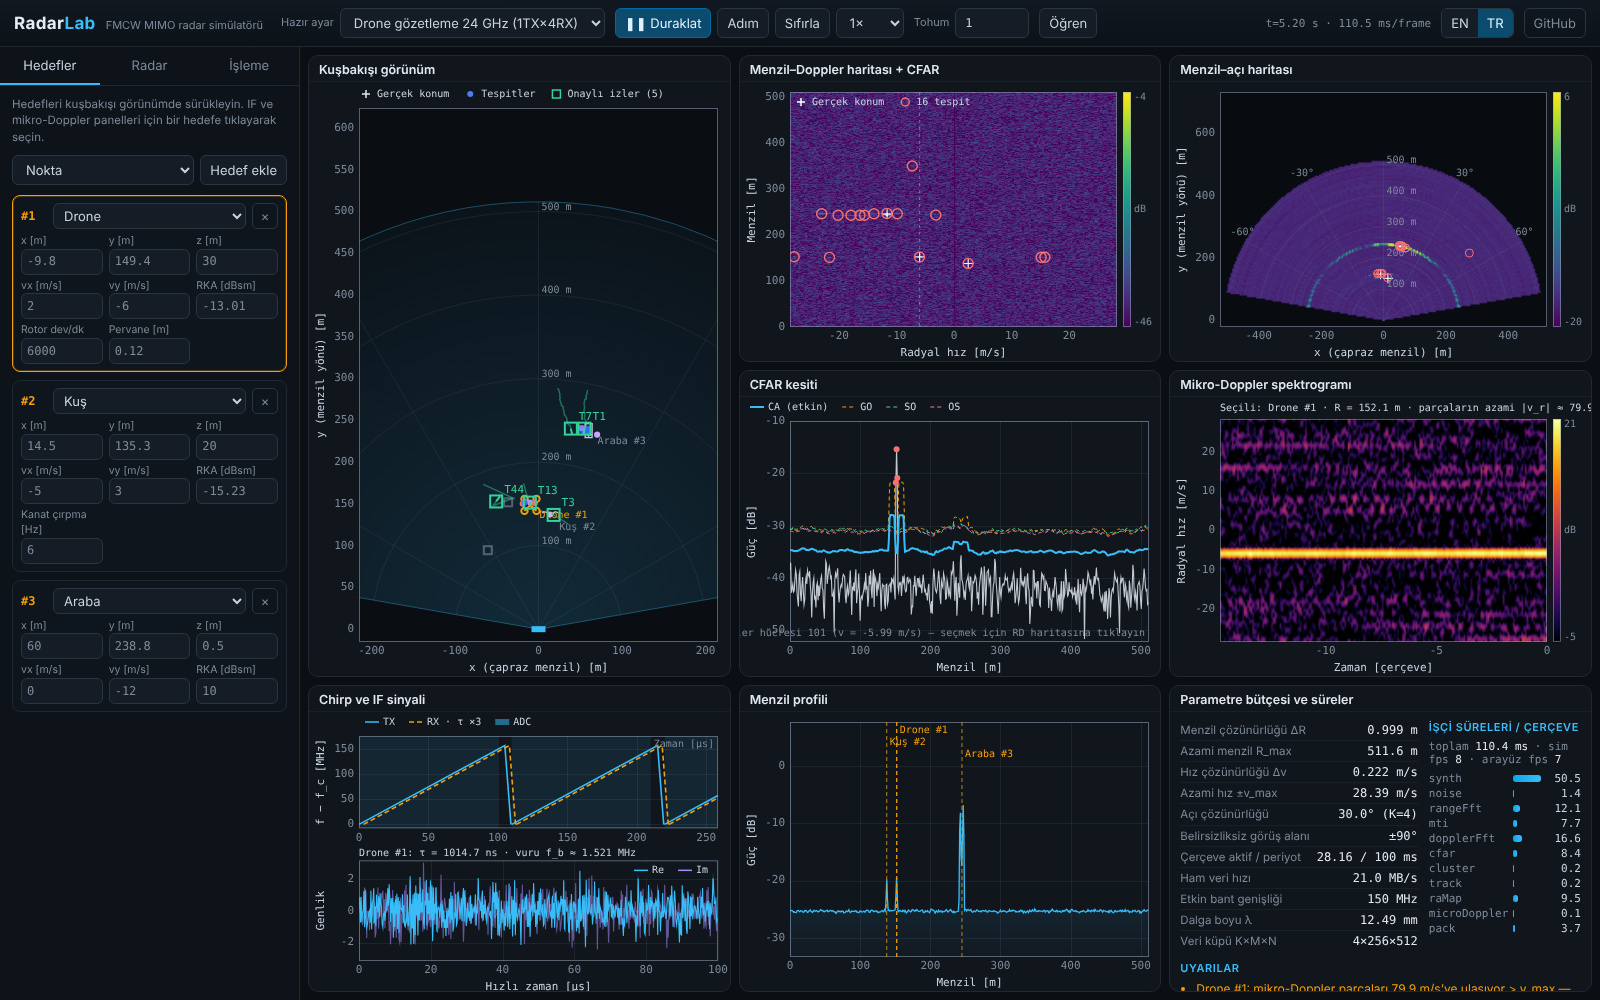
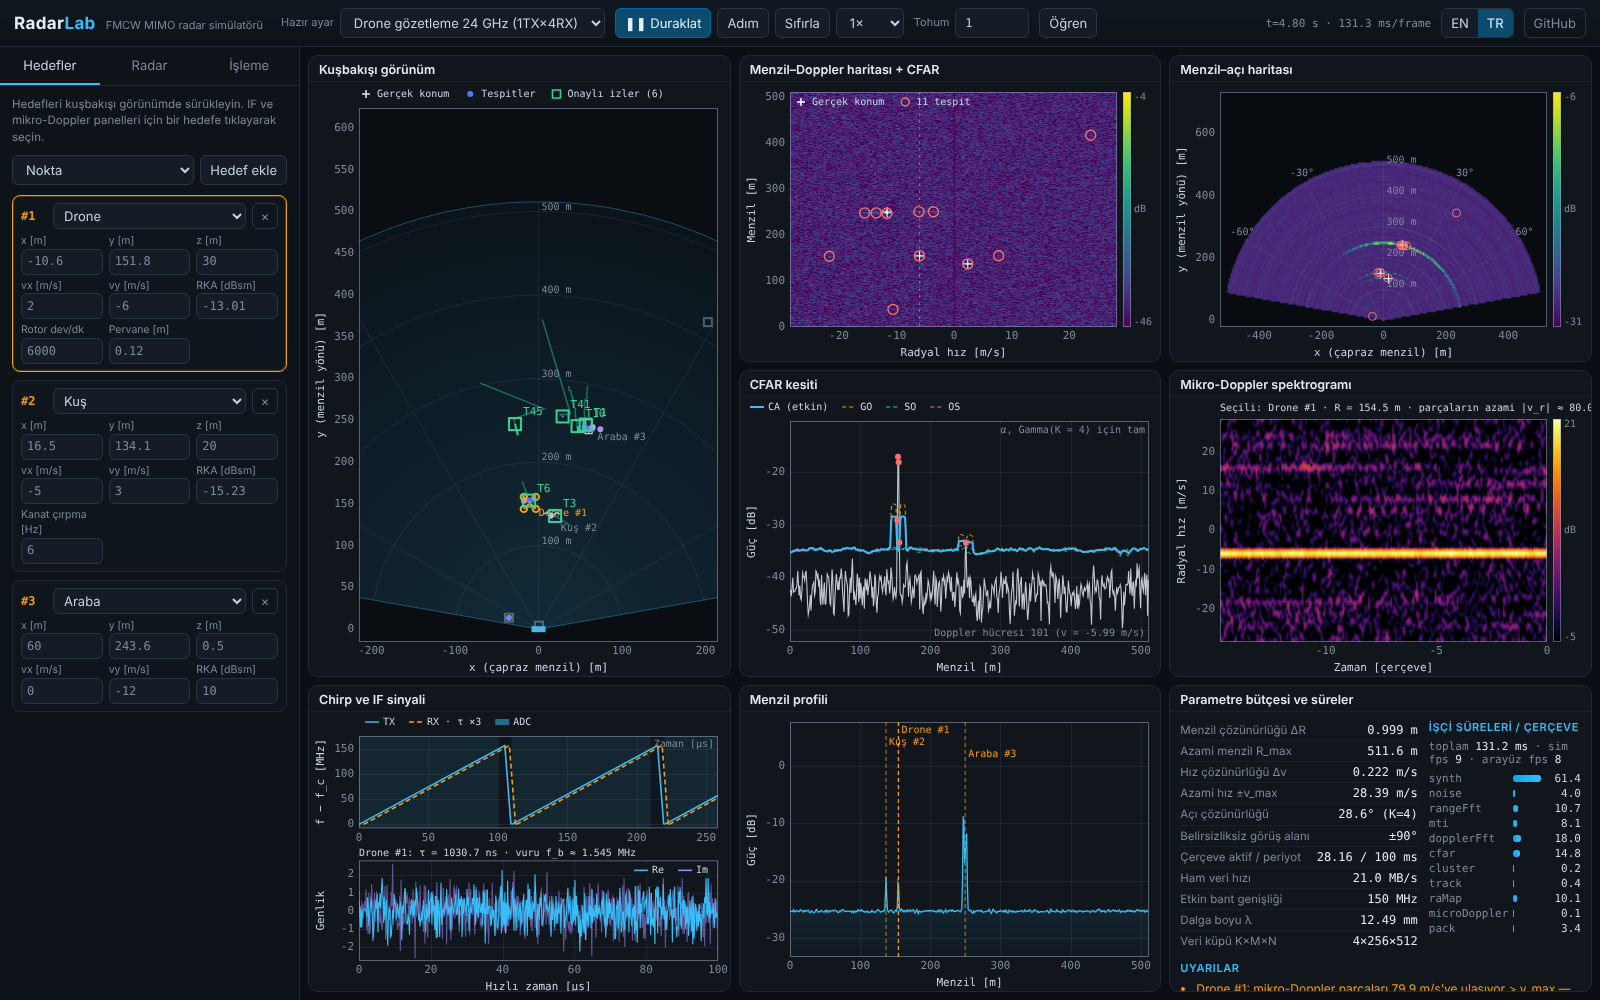
web: CFAR-cut caption fits narrow panels; refreshed screenshots

diff --git a/web/src/ui/i18n.ts b/web/src/ui/i18n.ts
@@ -48,7 +48,7 @@ const en: Dict = {
   noSel: 'Select a target (click in the bird’s-eye view or the target list).',
   cutAt: 'Doppler bin {d} (v = {v} m/s) — click the RD map to choose',
   active: 'active',
-  cutGamma: 'all α exact for Gamma(K = {k}) noise',
+  cutGamma: 'α exact for Gamma(K = {k})',
   rangeRes: 'Range resolution ΔR',
   rMax: 'Max range R_max',
   vRes: 'Velocity resolution Δv',
@@ -166,7 +166,7 @@ const tr: Dict = {
   noSel: 'Bir hedef seçin (kuşbakışı görünümde veya hedef listesinde tıklayın).',
   cutAt: 'Doppler hücresi {d} (v = {v} m/s) — seçmek için RD haritasına tıklayın',
   active: 'etkin',
-  cutGamma: 'tüm α değerleri Gamma(K = {k}) gürültü için tam',
+  cutGamma: 'α, Gamma(K = {k}) için tam',
   rangeRes: 'Menzil çözünürlüğü ΔR',
   rMax: 'Azami menzil R_max',
   vRes: 'Hız çözünürlüğü Δv',

diff --git a/web/src/ui/panels.ts b/web/src/ui/panels.ts
@@ -420,7 +420,9 @@ export class CutPanel extends CanvasPanel {
     c.fillStyle = THEME.dim;
     c.textAlign = 'right';
     c.textBaseline = 'top';
-    c.fillText(t('cutAt', { d: f.meta.cutBin, v: ((f.meta.cutBin - f.meta.M / 2) * d.dv).toFixed(2) }), rect.x + rect.w - 4, rect.y + rect.h - 14);
+    let cap = t('cutAt', { d: f.meta.cutBin, v: ((f.meta.cutBin - f.meta.M / 2) * d.dv).toFixed(2) });
+    if (c.measureText(cap).width > rect.w - 8) cap = cap.split(' — ')[0]; // drop the hint on narrow panels
+    c.fillText(cap, rect.x + rect.w - 4, rect.y + rect.h - 14);
     c.fillText(t('cutGamma', { k: String(d.nVirt) }), rect.x + rect.w - 4, rect.y + 4);
   }
   protected hover(p: { x: number; y: number }): void {
